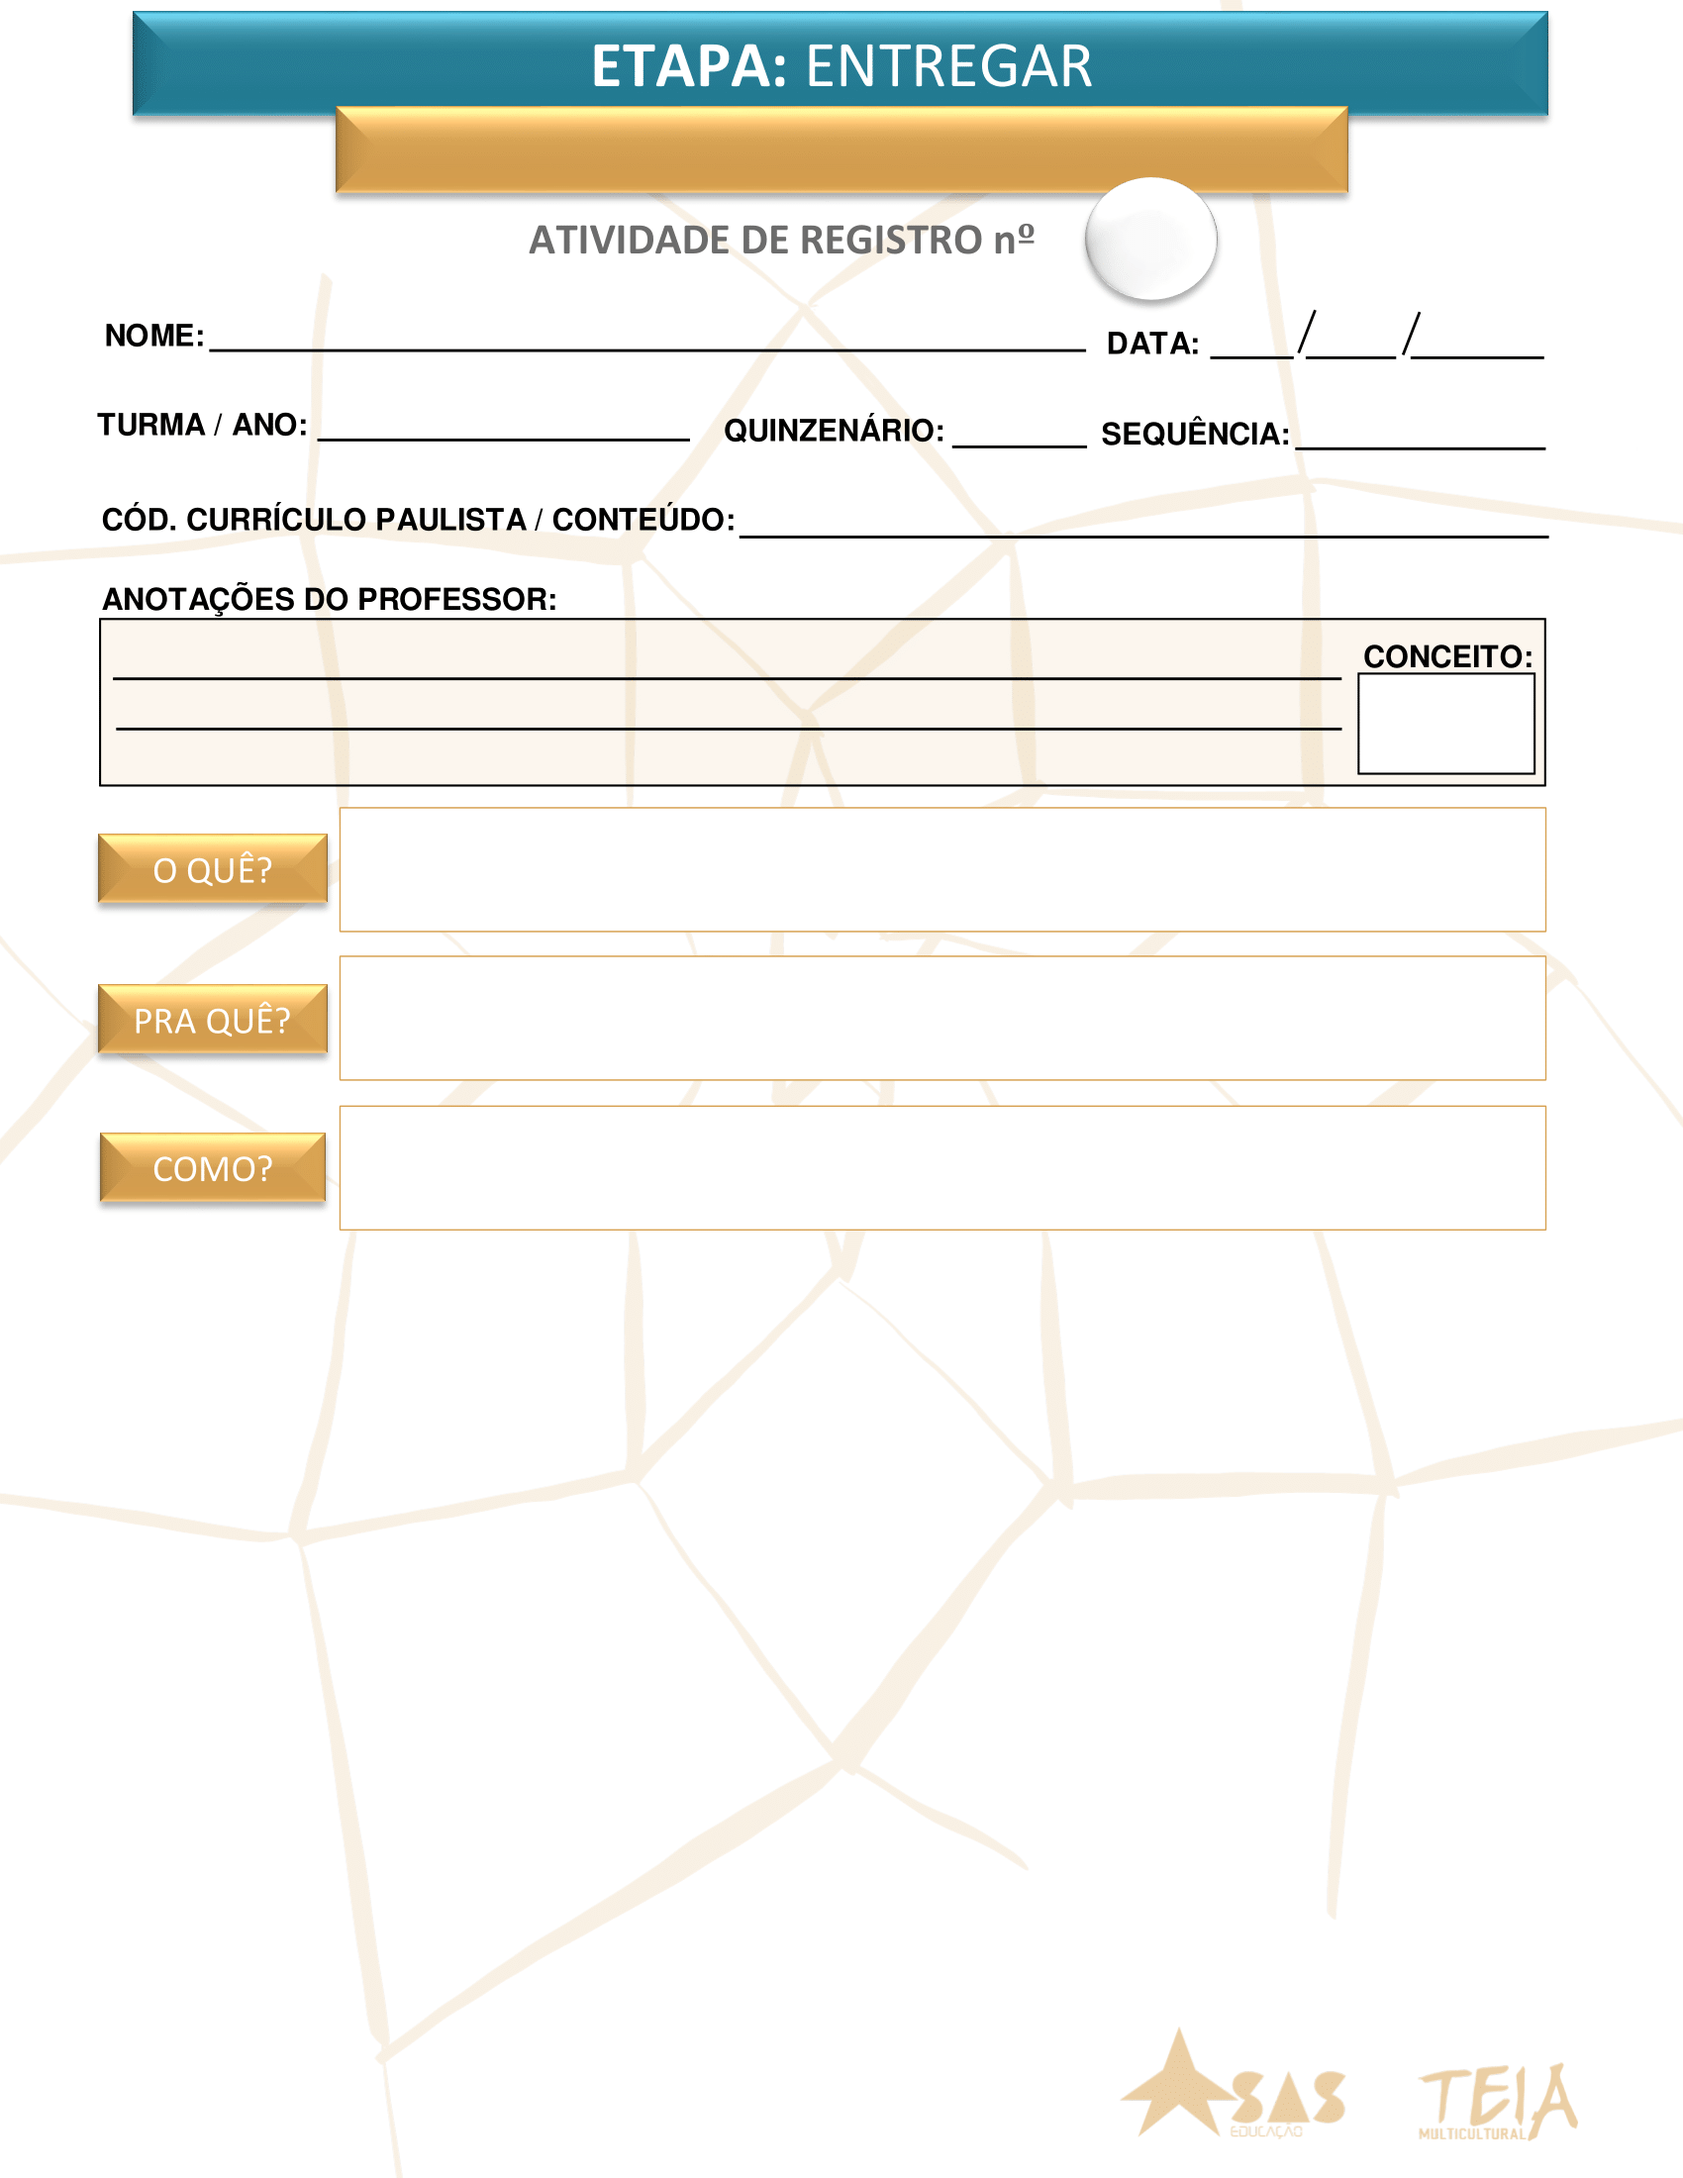
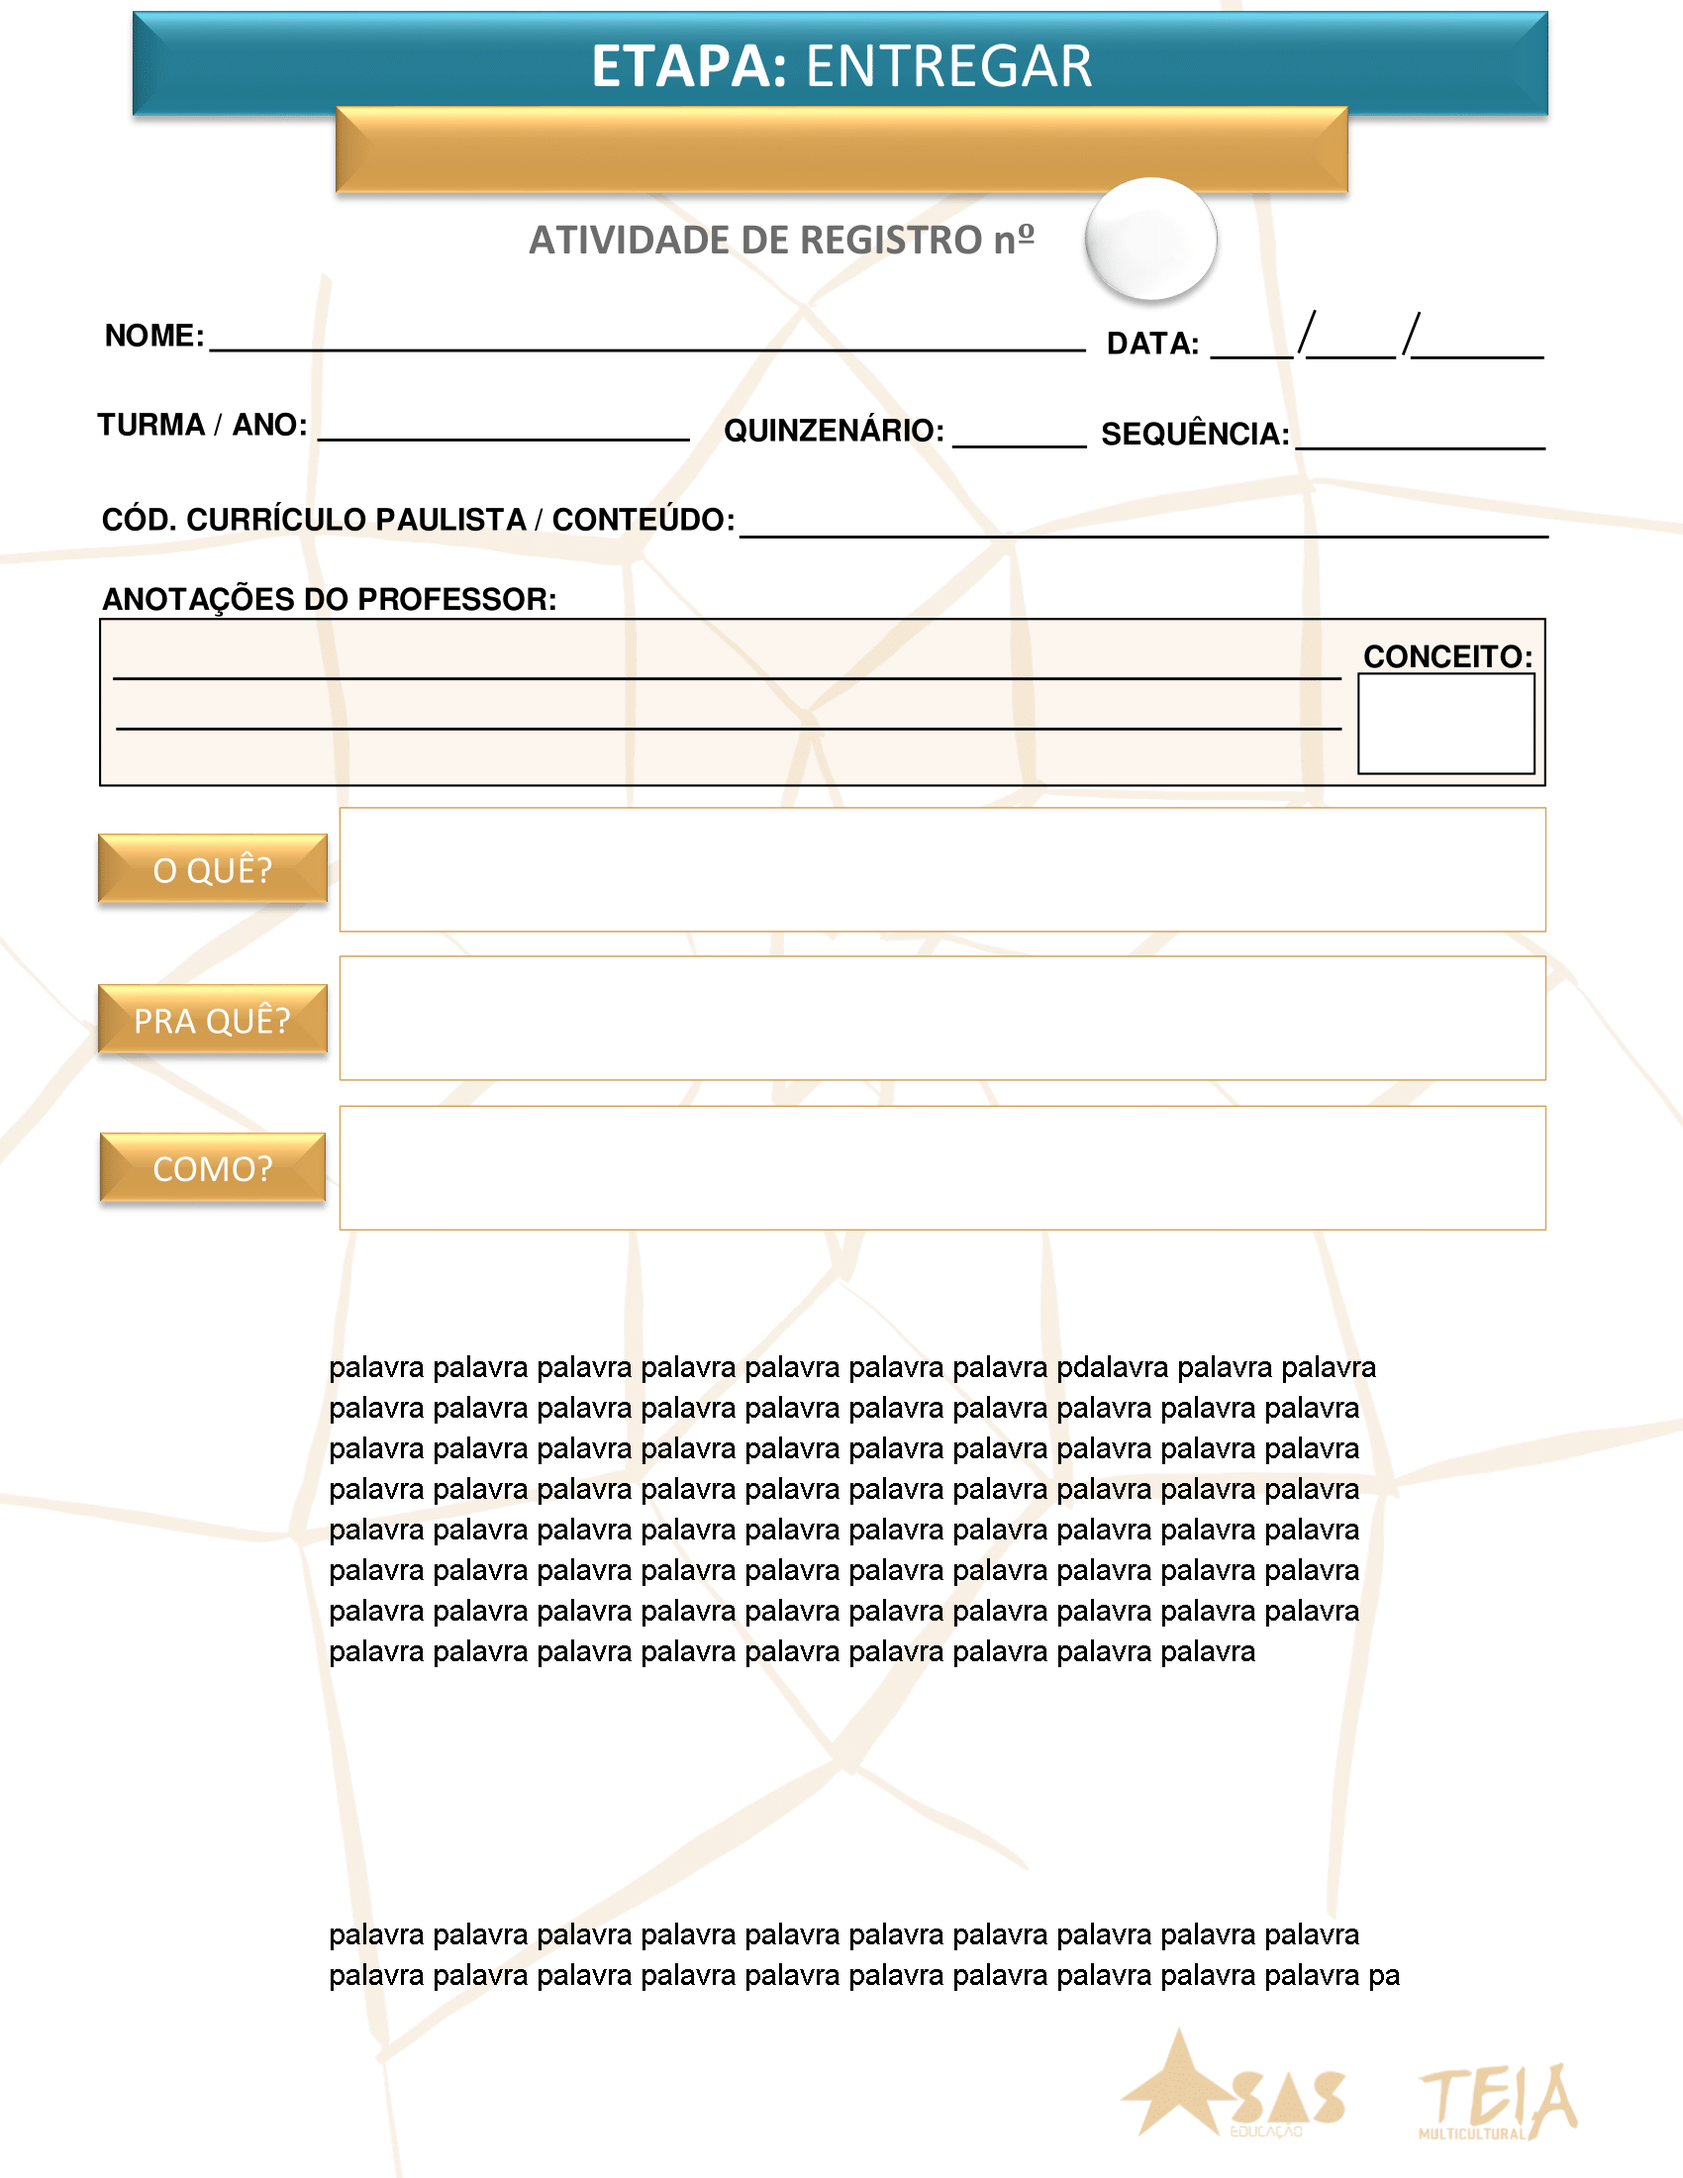
limite de texto primira página

diff --git a/script-preencher-light-mode.py b/script-preencher-light-mode.py
@@ -268,14 +268,28 @@ def validate_input_o_que(event):
         o_que_text.insert("1.0", truncated_text)  
     return True
 
-MAX_LINES_INSTRUCOES = 6  
+MAX_LINES_INSTRUCOES = 7
 
 def validate_input_instrucoes(event):
     lines = instrucoes_text.get("1.0", "end-1c").split('\n')
-    if len(lines) > MAX_LINES_INSTRUCOES:
-        instrucoes_text.delete("end-2l linestart", "end-1c")
-    return True
+    characters = len(instrucoes_text.get("1.0", "end-1c"))
 
+    if len(lines) > MAX_LINES_INSTRUCOES or characters > character_limit:
+        # Delete the last line if it exceeds the maximum lines
+        if len(lines) > MAX_LINES_INSTRUCOES:
+            instrucoes_text.delete("end-2l linestart", "end-1c")
+
+        # Delete the last character if it exceeds the maximum characters
+        if characters > character_limit:
+            instrucoes_text.delete("end-2c")
+
+        # Disable further input and display a warning message
+        instrucoes_text.config(state="disabled")
+        messagebox.showinfo("Limit Exceeded", "You have reached the limit of lines or characters.")
+
+        return "break"  # Prevents further input
+
+    instrucoes_text.config(state="normal") 
 def set_character_limit(limit):
     global character_limit
     character_limit = limit
@@ -300,7 +314,7 @@ pra_que_text.grid(row=3, column=0, padx=5, pady=5, sticky="nsew")
 como_label = ttk.Label(text_frame, text="COMO?", font=("Arial", 12, "bold"))
 como_label.grid(row=4, column=0, padx=5, pady=5, sticky="w")
 
-como_text = tk.Text(text_frame, height=3, bg="white", wrap = 'word', font=("Arial", 10))
+como_text = tk.Text(text_frame, height=4, bg="white", wrap = 'word', font=("Arial", 10))
 como_text.grid(row=5, column=0, padx=5, pady=5, sticky="nsew")
 
 instrucoes_label = ttk.Label(text_frame, text="INTRUÇÕES (primeira página):", font=("Arial", 12, "bold"))
@@ -308,6 +322,7 @@ instrucoes_label.grid(row=0, column=4, padx=5, pady=5, sticky="w")
 
 instrucoes_text = tk.Text(text_frame, height=5, bg="white", wrap = 'word', font=("Arial", 10))
 instrucoes_text.grid(row=1, column=4, padx=5, pady=5, sticky="nsew")
+instrucoes_text.bind("<Key>", validate_input_instrucoes)
 
 instrucoes_label2 = ttk.Label(text_frame, text="INTRUÇÕES (segunda página):", font=("Arial", 12, "bold"))
 instrucoes_label2.grid(row=2, column=4, padx=5, pady=5, sticky="w")
